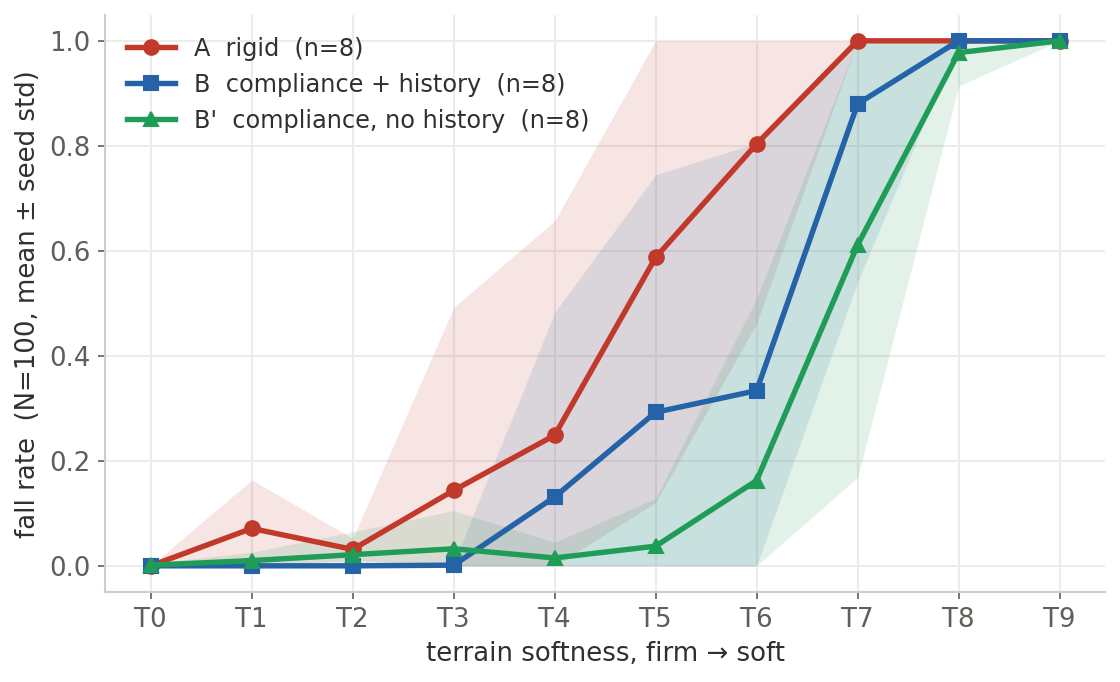
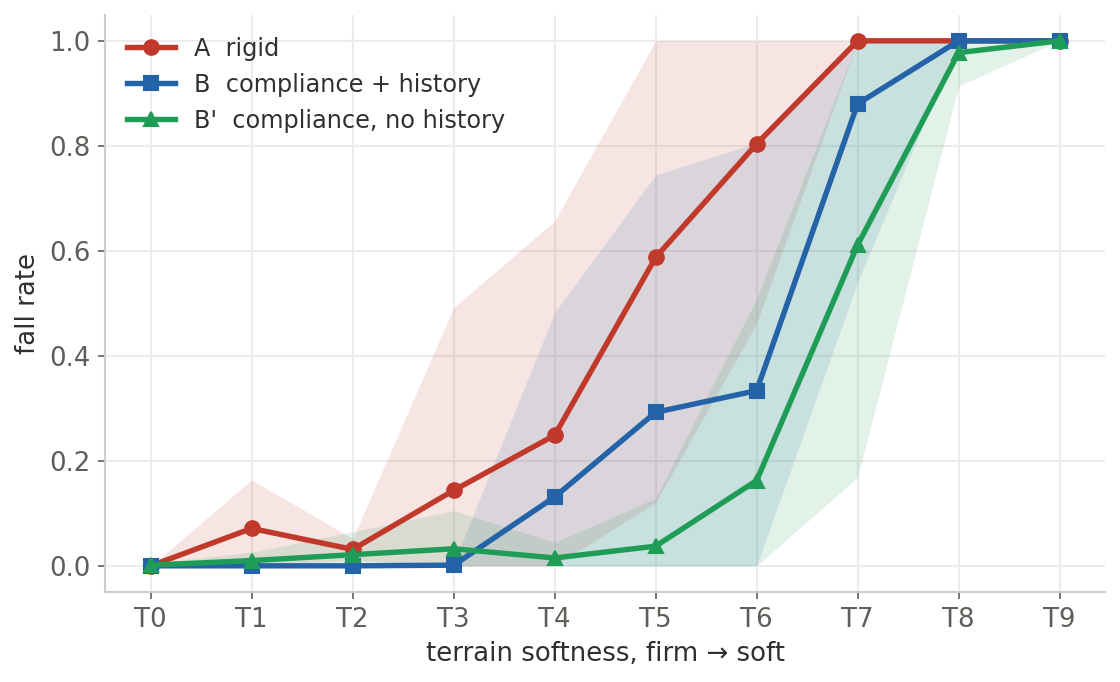
fix(blog): title 'Fast Breaks Fast'; drop n= from legends and N=100 y-axis note

diff --git a/blog/index.html b/blog/index.html
@@ -3,15 +3,15 @@
 <head>
   <meta charset="utf-8" />
   <meta name="viewport" content="width=device-width, initial-scale=1" />
-  <title>Fast Breaks First: Robustness Performance in Compliant Terrain Locomotion</title>
+  <title>Fast Breaks Fast: Robustness Performance in Compliant Terrain Locomotion</title>
   <link rel="icon" href="data:," />
   <meta name="description" content="What does it actually take for a robot to handle ground it was never trained on? I ran the experiment and found the answer." />
   <meta property="og:type" content="article" />
-  <meta property="og:title" content="Fast Breaks First: Robustness Performance in Compliant Terrain Locomotion" />
+  <meta property="og:title" content="Fast Breaks Fast: Robustness Performance in Compliant Terrain Locomotion" />
   <meta property="og:description" content="What does it actually take for a robot to handle ground it was never trained on? I ran the experiment and found the answer." />
   <meta property="og:image" content="figures/hero_variance.png" />
   <meta name="twitter:card" content="summary_large_image" />
-  <meta name="twitter:title" content="Fast Breaks First: Robustness Performance in Compliant Terrain Locomotion" />
+  <meta name="twitter:title" content="Fast Breaks Fast: Robustness Performance in Compliant Terrain Locomotion" />
   <meta name="twitter:description" content="What does it actually take for a robot to handle ground it was never trained on? I ran the experiment and found the answer." />
   <meta name="twitter:image" content="figures/hero_variance.png" />
   <link rel="preconnect" href="https://fonts.googleapis.com" />
@@ -27,7 +27,7 @@
          ================================================================== -->
     <header class="post-header" id="header">
       <span class="eyebrow">Reinforcement learning &middot; Robotics</span>
-      <h1 class="post-title">Fast Breaks First: Robustness Performance in Compliant Terrain Locomotion</h1>
+      <h1 class="post-title">Fast Breaks Fast: Robustness Performance in Compliant Terrain Locomotion</h1>
       <p class="dek">What does it actually take for a robot to handle ground it was never trained on? I ran the experiment and found the answer.</p>
 
       <div class="byline">

diff --git a/analysis/plot_blog_figures.py b/analysis/plot_blog_figures.py
@@ -92,18 +92,16 @@ def fall_curve(ax, ev):
     x = np.arange(len(ORDER))
     for pol, color, label, mk in POLS:
         sub = ev[ev.policy == pol]
-        n = sub.seed.nunique()
         mean = np.array([sub[sub.terrain == t].fall_rate.mean() for t in ORDER])
         std = np.array([sub[sub.terrain == t].fall_rate.std() for t in ORDER])
         ax.fill_between(x, np.clip(mean - std, 0, 1), np.clip(mean + std, 0, 1),
                         color=color, alpha=0.13, linewidth=0)
-        ax.plot(x, mean, mk + "-", color=color, lw=2.6, ms=7,
-                label=f"{label}  (n={n})")
+        ax.plot(x, mean, mk + "-", color=color, lw=2.6, ms=7, label=label)
     ax.set_xticks(x)
     ax.set_xticklabels(TLAB)
     ax.set_ylim(-0.05, 1.05)
     ax.set_xlabel("terrain softness, firm → soft")
-    ax.set_ylabel("fall rate  (N=100, mean ± seed std)")
+    ax.set_ylabel("fall rate")
     clean(ax)
 
 
@@ -191,8 +189,8 @@ def speed_matched(sm):
     x = np.arange(len(cmds))
     w = 0.38
     fig, ax = plt.subplots(figsize=(7.8, 4.8))
-    ax.bar(x - w / 2, bvals, w, color=C_A, label=f"brittle seeds (n={len(brittle)})")
-    ax.bar(x + w / 2, rvals, w, color=C_BP, label=f"robust seeds (n={len(robust)})")
+    ax.bar(x - w / 2, bvals, w, color=C_A, label="brittle seeds")
+    ax.bar(x + w / 2, rvals, w, color=C_BP, label="robust seeds")
     for i, (bv, rv) in enumerate(zip(bvals, rvals)):
         ax.text(i - w / 2, bv, f"{bv:.2f}", ha="center", va="bottom", fontsize=10.5)
         ax.text(i + w / 2, rv, f"{rv:.2f}", ha="center", va="bottom", fontsize=10.5)
